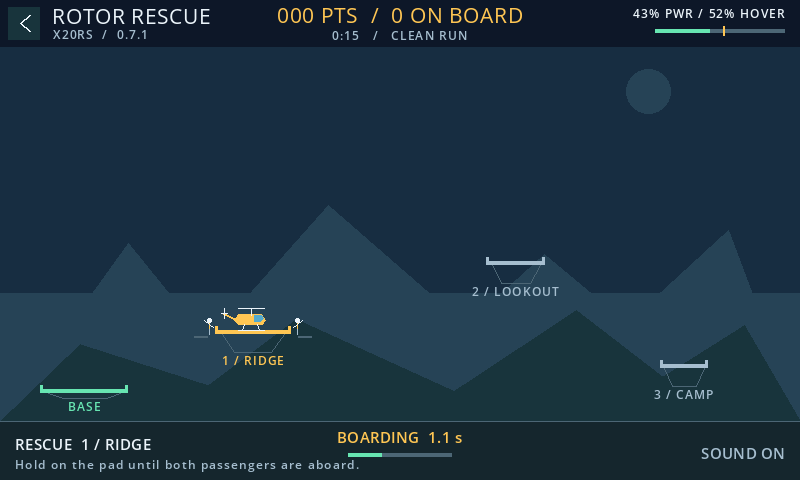
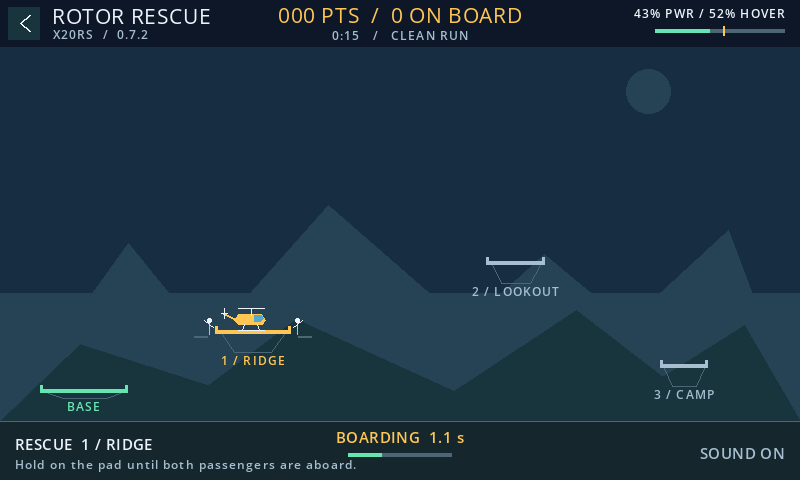
Show version 0.7.2 in the README screenshots
Render the three gameplay screenshots again with the test bench
(tools/headless.py --screenshots docs/images). Only the version line
under the title changes.

diff --git a/README.md b/README.md
@@ -66,7 +66,7 @@ For the smoothest flight, select a dedicated blank model with no heavy Lua dashb
 | --- | --- |
 | ![Two passengers wait beside the helicopter during boarding.](docs/images/boarding.png) | ![Mission complete after returning six passengers to Base.](docs/images/mission-complete.png) |
 
-The gameplay screenshots show version 0.7.1 in full screen. They are rendered at 800 × 480 by the project's test bench (`python3 tools/headless.py --screenshots docs/images`) from a scripted flight, with fonts matched to the X20RS simulator. The System menu screenshot was captured in the X20RS simulator.
+The gameplay screenshots show version 0.7.2 in full screen. They are rendered at 800 × 480 by the project's test bench (`python3 tools/headless.py --screenshots docs/images`) from a scripted flight, with fonts matched to the X20RS simulator. The System menu screenshot was captured in the X20RS simulator.
 
 ## Beat the score
 
